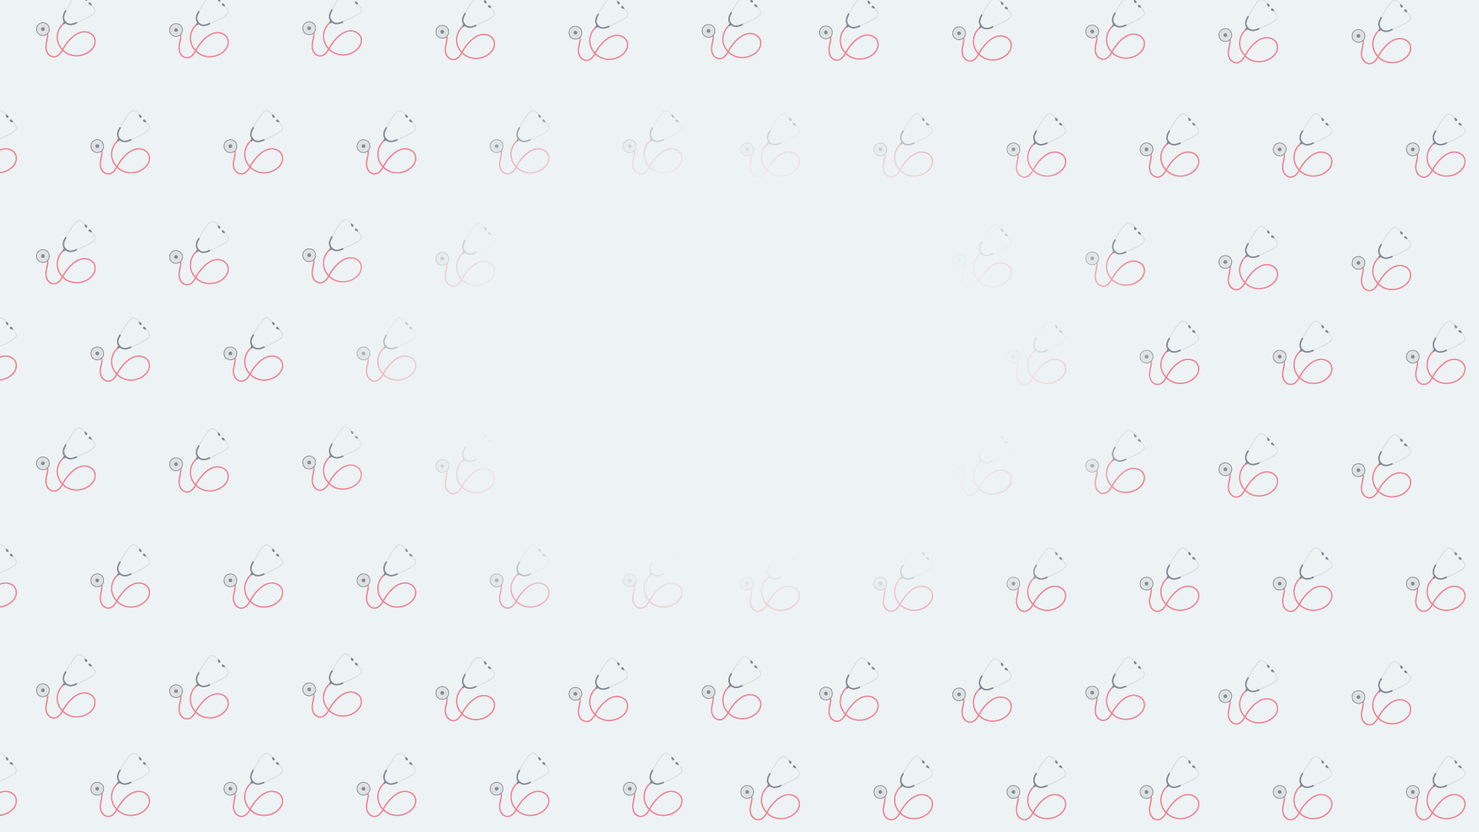
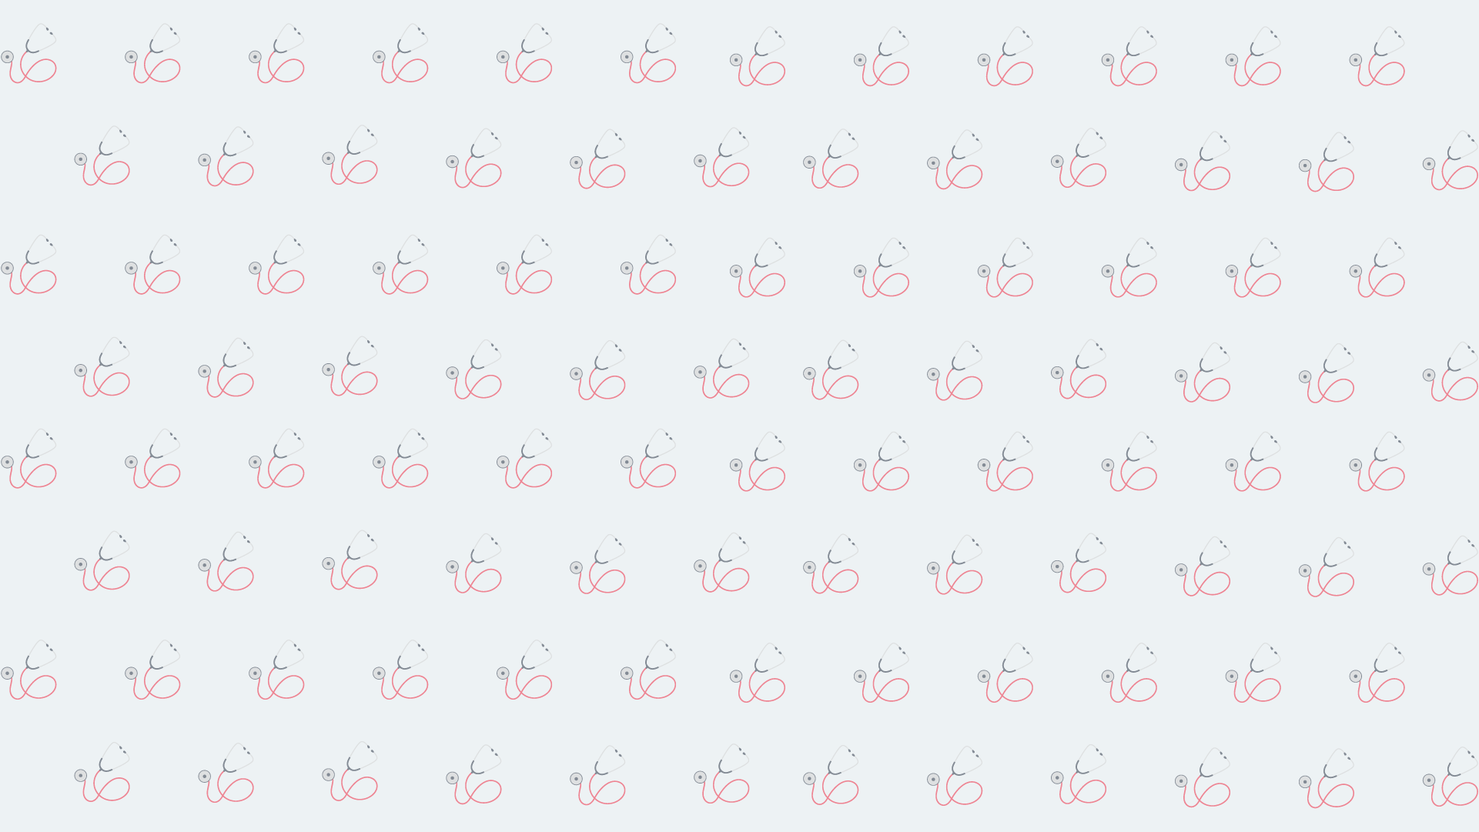
2023 update
changed text color to #2b2d42 or #edf2f4 depending on the background color
added new aftermovie
changed icon color
changed all years to 2023
added new background images and colors to all sections
ramove brainhack finished text
changed link color to d90429
removed text from Lectures section
schadule - needs to be updated at a later date
removed zicer and educateam from sponsors (until formal confirmation)
added Become a sponsor section

diff --git a/index.html b/index.html
@@ -5,10 +5,10 @@
     <meta charset="utf-8">
     <meta http-equiv="X-UA-Compatible" content="IE=edge">
     <meta name="viewport" content="width=device-width, initial-scale=1">
-    <meta name="description" content="Brainhack Zagreb 2022 Website">
-    <meta name="author" content="Brainhack Zagreb 2022">
+    <meta name="description" content="Brainhack Zagreb 2023 Website">
+    <meta name="author" content="Brainhack Zagreb 2023">
     <meta property="og:image" content="https://brainhackzg.github.io/img/instagram.png"/>
-    <title>Brainhack Zagreb 2022</title>
+    <title>Brainhack Zagreb 2023</title>
     <!-- Bootstrap Core CSS -->
     <link href="css/bootstrap.min.css" rel="stylesheet">
     <!--<link rel="stylesheet" href="https://maxcdn.bootstrapcdn.com/bootstrap/3.3.7/css/bootstrap.min.css" integrity="sha384-BVYiiSIFeK1dGmJRAkycuHAHRg32OmUcww7on3RYdg4Va+PmSTsz/K68vbdEjh4u" crossorigin="anonymous">-->
@@ -53,6 +53,9 @@
                 <a href="#sponsors" onclick=$ ( "#menu-close").click();>Sponsors</a>
             </li>
             <li>
+                <a href="#become-sponsor" onclick=$ ( "#menu-close").click();>Become a sponsor</a>
+            </li>
+            <li>
                 <a href="#previousbrainhacks" onclick=$ ( "#menu-close").click();>Previous Brainhacks</a>
             </li>
             <li>
@@ -71,16 +74,14 @@
             </div>-->
             <div class="row">
                 <div class="col-xl-8 col-xl-offset-2 col-lg-8 col-lg-offset-2 col-md-10 col-md-offset-1 col-sm-10 col-sm-offset-1 col-xs-12 col-xs-offset-0">
-                    <h2 color:#2b2d42> Zagreb - 3rd & 4th December 2022 @ <a class="naslovboja" href="https://g.page/ZICER"><strong>ZICER</strong></a></h2>
-                    <h2 color:#2b2d42>Brainhack has finished for this year!</h2>
-                    <!--<h2> Registrations are open until December 2nd. Register <a class="naslovboja" href="https://educateam.hr/brainhack-zagreb/"><strong>here</strong></a> and fill out the <a class="naslovboja" href="https://forms.gle/KoDnWja2hJwJXS3J6"><strong>participation form</strong></a>!</h2></h2>-->
-                    <!--<h2> Explore and contribute to <a class= "naslovboja" href="https://brainhack.org/global2022/projects/">brainhack projects worldwide!</a></h2>-->
-                   <!-- <h3>Check out the <a class="naslovboja" href="https://drive.google.com/drive/folders/1TWyFN6QchWBv-5c6VBynTo_1aTCE4S4C"><strong>image gallery</strong></a> and <a class="naslovboja" href="https://github.com/brainhackzg/hackathon2018/wiki/Projects"><strong>project details</strong></a> from the previous (2018) edition of Brainhack Zagreb!</h3> -->
-
+                        <h2 style="color: #2b2d42"> Zagreb - 21st & 22nd October 2023
+                        <!--<h2> Registrations are open until December 2nd. Register <a class="naslovboja" href="https://educateam.hr/brainhack-zagreb/"><strong>here</strong></a> and fill out the <a class="naslovboja" href="https://forms.gle/KoDnWja2hJwJXS3J6"><strong>participation form</strong></a>!</h2></h2>-->
+                        <!--<h2> Explore and contribute to <a class= "naslovboja" href="https://brainhack.org/global2022/projects/">brainhack projects worldwide!</a></h2>-->
+                        <!-- <h3>Check out the <a class="naslovboja" href="https://drive.google.com/drive/folders/1TWyFN6QchWBv-5c6VBynTo_1aTCE4S4C"><strong>image gallery</strong></a> and <a class="naslovboja" href="https://github.com/brainhackzg/hackathon2018/wiki/Projects"><strong>project details</strong></a> from the previous (2018) edition of Brainhack Zagreb!</h3> -->
             </div>
             </div>
             <!-- <a href="https://docs.google.com/forms/d/e/1FAIpQLSfybbI95ETYmQ0YF7HKg3Cr88BP-ylxqAhCjKpN_hT3HfGv5g/viewform" target="_blank" class="btn btn-dark btn-lg top5 left5">Register Now</a>-->
-            <a href="https://mattermost.brainhack.org" target="_blank" class="btn btn-dark btn-lg top5 left5">Join Brainhack on Mattermost</a> 
+            <a style="color: #edf2f4" href="https://mattermost.brainhack.org" target="_blank" class="btn btn-dark btn-lg top5 left5">Join Brainhack on Mattermost</a> 
 	  <br>
             <a href="https://www.facebook.com/BrainhackZagreb" target="_blank">
               <img src="img/facebook_logo.png" height="55rem" alt="Facebook"/> </a>
@@ -92,7 +93,7 @@
             <br>
             <!-- <a href="#about" class="btn btn-dark btn-lg">Find Out More</a> -->
             <iframe width="560" height="315" src="https://www.youtube.com/embed/FnB5gvgEZf4?controls=0" title="YouTube video player" frameborder="0" allow="accelerometer; autoplay; clipboard-write; encrypted-media; gyroscope; picture-in-picture" allowfullscreen></iframe>
-            <iframe width="560" height="315" src="https://www.youtube.com/embed/p1CC6oWoKWo?controls=0" title="YouTube video player" frameborder="0" allow="accelerometer; autoplay; clipboard-write; encrypted-media; gyroscope; picture-in-picture" allowfullscreen></iframe>
+            <iframe width="560" height="315" src="https://www.youtube.com/embed/ECnOtcYUQ0c?si=xlG1BNCaIOg4Onxr" title="YouTube video player" frameborder="0" allow="accelerometer; autoplay; clipboard-write; encrypted-media; gyroscope; picture-in-picture; web-share" allowfullscreen></iframe>
             <br>
             <br>
         </div>
@@ -107,12 +108,14 @@
                         <div class="service-item">
                             <span class="fa-stack fa-4x">
                                     <i class="fa fa-circle fa-stack-2x"></i>
+                                    <div class="tekstboja">
                                     <i class="fa fa-share-alt fa-stack-1x text-primary"></i>
+                                </div>
                                 </span>
-                            <h4>
+                            <h4 style="color: #edf2f4">
                                     <strong>Share</strong>
                                 </h4>
-                            <p>Show your research to other researchers.</p>
+                            <p style="color: #edf2f4">Show your research to other researchers.</p>
                         </div>
                     </div>
                     <div class="col-md-3 col-sm-6">
@@ -121,10 +124,10 @@
                                     <i class="fa fa-circle fa-stack-2x"></i>
                                     <i class="fa fa-graduation-cap fa-stack-1x text-primary"></i>
                                 </span>
-                            <h4>
+                            <h4 style="color: #edf2f4">
                                     <strong>Gain Skills</strong>
                                 </h4>
-                            <p>Learn how to apply the latest computational tools to your data.</p>
+                            <p style="color: #edf2f4">Learn how to apply the latest computational tools to your data.</p>
                         </div>
                     </div>
                     <div class="col-md-3 col-sm-6">
@@ -133,10 +136,10 @@
                                     <i class="fa fa-circle fa-stack-2x"></i>
                                     <i class="fa fa-cogs fa-stack-1x text-primary"></i>
                                 </span>
-                            <h4>
+                            <h4 style="color: #edf2f4">
                                     <strong>Get Involved</strong>
                                 </h4>
-                            <p>Find exciting projects that you would like to contribute to.</p>
+                            <p style="color: #edf2f4">Find exciting projects that you would like to contribute to.</p>
                         </div>
                     </div>
                     <div class="col-md-3 col-sm-6">
@@ -145,10 +148,10 @@
                                     <i class="fa fa-circle fa-stack-2x"></i>
                                     <i class="fab fa-weixin fa-stack-1x text-primary"></i>
                                 </span>
-                            <h4>
+                            <h4 style="color: #edf2f4">
                                     <strong>Be Social</strong>
                                 </h4>
-                            <p>Meet researchers from a variety of backgrounds.</p>
+                            <p style="color: #edf2f4">Meet researchers from a variety of backgrounds.</p>
                         </div>
                     </div>
                 </div>
@@ -167,15 +170,15 @@
             <div class="row text-center">
                 <div class="col-xl-8 col-xl-offset-2 col-lg-8 col-lg-offset-2 col-md-10 col-md-offset-1 col-sm-10 col-sm-offset-1 col-xs-12 col-xs-offset-0">
             <!-- <h3><a href="https://www.entrio.hr/event/brainhack-zagreb-2018-4854" target="_blank">Register for the Brainhack Zagreb 2018!</a></h3> -->
-                    <h2 style="color: white">Brainhack Zagreb 2022</h2>
+                    <h2 style="color: #edf2f4">Brainhack Zagreb 2023</h2>
 		<!--<h4> See what's going on in the <a href="https://www.tportal.hr/tehno/clanak/dobre-vibracije-na-brainhacku-skenirali-rubne-dijelove-mozgova-i-mozdanim-valovima-igrali-super-marija-foto-20191118">media</a>, what our partners <a href="https://www.diktiranje.hr/blog/4574-nastavak-ulaganja-u-znanost-i-bolju-buducnost-brainhack-2019/">write</a>, this cool <a href="https://www.youtube.com/watch?v=wwZsKRezP2Q">video</a> and stay updated about the projects on Brainhack <a href="https://github.com/brainhackzg/brainhackzg.github.io/wiki">wiki pages</a>!</h4>-->
-			<h4 style="color: white"> Brainhack Zagreb is part of an international initiative of hackathons known as <a href="http://www.brainhack.org/" target="_blank">Brainhack Global</a>. We bring researchers from numerous disciplines together to participate in open collaboration at the crossing of neuroscience, computer science and statistics. </h4>
+			<h4 style="color: #edf2f4"> Brainhack Zagreb is part of an international initiative of hackathons known as <a style="color: #d90429" href="http://www.brainhack.org/" target="_blank">Brainhack Global</a>. We bring researchers from numerous disciplines together to participate in open collaboration at the crossing of neuroscience, computer science and statistics. </h4>
 			     <br>
-                 <h2 style="color: white">How Brainhack works?</h2>
-                 <h4 style="color: white">Participants will introduce projects and themselves at the beginning of the hackathon. Bring your data, show your work, or ask a question from your field of interest. If you don't have something to show, don't worry, kick back and find what interests you - maybe you can help others in their projects, or learn something new. During open hacking you will have time to work on projects, share ideas, tinker with stuff and most importantly - be the part of the atmosphere!</h4>
+                 <h2 style="color: #edf2f4">How Brainhack works?</h2>
+                 <h4 style="color: #edf2f4">Participants will introduce projects and themselves at the beginning of the hackathon. Bring your data, show your work, or ask a question from your field of interest. If you don't have something to show, don't worry, kick back and find what interests you - maybe you can help others in their projects, or learn something new. During open hacking you will have time to work on projects, share ideas, tinker with stuff and most importantly - be the part of the atmosphere!</h4>
                  <br>
-		 <h3 style="color: white">Travel support available!</h3>
-                 <h4 style="color: white">We are able to support travel costs for participants coming from outside Zagreb. To apply and for more details, write us at <a href="mailto:brainhackzg@gmail.com">brainhackzg@gmail.com</a>.</h5>
+		 <h3 style="color: #edf2f4">Travel support available!</h3>
+                 <h4 style="color: #edf2f4">We are able to support travel costs for participants coming from outside Zagreb. To apply and for more details, write us at <a style="color: #d90429" href="mailto:brainhackzg@gmail.com">brainhackzg@gmail.com</a>.</h5>
                     		<div class="row">
                         	<div class="col-lg-10 col-lg-offset-1 text-center">
                             	<img src="img/bh.png" height="600rem" alt="MAGIC!" class="slikamozak"></a>
@@ -190,9 +193,10 @@
     </section>
 
     <section id="programme" class="programme">
-        <h1 style="color: #fff">Programme</h1>
+        <h1 style="color: #2b2d42">Programme</h1>
+        <h2 style="color: #2b2d42">To Be Announced Soon</h2>
 
-
+        <!--
         <h2 style="color: #fff">Lectures</h2>
         <div class="container">
             <div class="row text-center">
@@ -235,7 +239,7 @@
             </div>
             <!-- /.row -->
         </div>
-
+        <!--
         <h2 style="color: #fff">Panel Discussion</h2>
         <h3 style="color: #fff"><i>Neurolinguistics in everyday life</i></h3>
         <h3 style="color: #fff">Saturday (Day 1) 4pm</h3>
@@ -283,7 +287,7 @@
             </div>
             <!-- /.row -->
         </div>
-
+    
     </section>
 
     <aside class="workspace" id="schedule">
@@ -303,10 +307,10 @@
             <br>
                     <div class="container">
                         <div class="row top30">&nbsp</div>
-                        <h2>Schedule</h2>
+                        <h2 style="color: #2b2d42">Schedule</h2>
                             </div>
                         </div>
-                        <div class="row top30">
+                        <div style="color: #edf2f4" class="row top30">
                             
             
                             <!-- Day 1 START -->
@@ -391,7 +395,7 @@
                             </div>
                             <!-- Day 1 END -->
                             <!-- Day 2 START -->
-                            <div class="col-md-6 col-lg-6 col-sm-10 col-xs-10 col-md-offset-0 col-lg-offset-0 col-sm-offset-1 col-xs-offset-1">
+                            <div style="color: #edf2f4" class="col-md-6 col-lg-6 col-sm-10 col-xs-10 col-md-offset-0 col-lg-offset-0 col-sm-offset-1 col-xs-offset-1">
                                 <div class="row top5 text-center">
                                     <div class="col-md-8 col-md-offset-2 col-xs-8 col-xs-offset-2 text-dark">
                                         <h3>Day 2</h3>
@@ -494,7 +498,7 @@
             <div class="row">
                 <div class="col-lg-12 text-center">
                     <br>
-                    <h3 style="color: #03071e"><strong>Supported by:</strong></h3>
+                    <h3 style="color: #2b2d42"><strong>Supported by:</strong></h3>
                     <br>
                     <br>
                 </div>
@@ -568,7 +572,7 @@
                         <br>
                         <br>
                     </div>
-                    <div class="col-lg-4 col-lg-offset-1 col-md-3 col-md-offset-0 col-sm-10 col-sm-offset-1 col-xs-10 col-xs-offset-1">
+                    <!--<div class="col-lg-4 col-lg-offset-1 col-md-3 col-md-offset-0 col-sm-10 col-sm-offset-1 col-xs-10 col-xs-offset-1">
                         <a href="https://www.zicer.hr/" target="_blank">
                             <img src="img/logo/support/eng/zicer-logo.png" height="80rem" alt="ZICER"/>
                         </a>
@@ -583,7 +587,7 @@
                         <br>
                     </div>
 
-                </div>
+                </div>-->
             </div>
             <div class="row top5">&nbsp;</div>
         </div>
@@ -591,17 +595,28 @@
     </section>
   </section>
 
+  <section id="become-sponsor">
+    <div style="background: #2b2d42">
+    <div class="row text-center">
+        <h2 style="color: #edf2f4; font-family: Comfortaa;">If you wish to become a sponsor, feel free to contact us!</h2>
+    </div>
+    </div>
+  </section>
+
 
   <section>
       <div class="workspace" id="previousbrainhacks">
         <div class="row text-center">
-          <h2> Previous Brainhacks </h2>
+          <h2 style="color: #2b2d42"> Previous Brainhacks </h2>
           <br>
-          <a  onclick="setYear(2018)" target="_blank" class="btn btn-dark btn-lg top5 left5">2018</a>
-          <a  onclick="setYear(2019)" target="_blank" class="btn btn-dark btn-lg top5 left5">2019</a>
-          <a  onclick="setYear(2020)" target="_blank" class="btn btn-dark btn-lg top5 left5">2020</a>
-          <a  onclick="setYear(2021)" target="_blank" class="btn btn-dark btn-lg top5 left5">2021</a>
           <a  onclick="setYear(2022)" target="_blank" class="btn btn-dark btn-lg top5 left5">2022</a>
+          <a  onclick="setYear(2021)" target="_blank" class="btn btn-dark btn-lg top5 left5">2021</a>
+          <a  onclick="setYear(2020)" target="_blank" class="btn btn-dark btn-lg top5 left5">2020</a>
+          <a  onclick="setYear(2019)" target="_blank" class="btn btn-dark btn-lg top5 left5">2019</a>
+          <a  onclick="setYear(2018)" target="_blank" class="btn btn-dark btn-lg top5 left5">2018</a>
+
+          
+          
 
         </div>
 
@@ -611,7 +626,7 @@
 
  <!-- Full-width images with number and caption text -->
  <div class="slides" >
-   <img src= "img/previousbh/2018/img1.png" width = 100%>
+   <img src= "img/previousbh/2022/img1.jpg" width = 100%>
    <!-- <div id="caption" class="text" textContent=""></div> -->
  </div>
 
@@ -626,44 +641,41 @@
         <div class="container">
             <div class="row">
                 <div class="col-lg-10 col-lg-offset-1 text-center">
-                    <h3><strong>For more information:</strong></h3>
+                    <h3 style="color: #edf2f4"><strong>For more information:</strong></h3>
                     <i class="fa fa-envelope-o fa-fw"></i>
 			<a href="https://www.facebook.com/BrainhackZagreb" target="_blank">
                             <img src="img/facebook_logo.png" height="55rem" alt="Facebook"/>
 		    	<a href="https://www.instagram.com/brainhack_zagreb/" target="_blank">
                             <img src="img/instagram_logo.png" height="80rem" alt="Facebook"/>
 			<br>
-                    <a href="mailto:brainhackzg@gmail.com">brainhackzg@gmail.com</a>
+                    <a style="font-size:200%; color: #d90429" href="mailto:brainhackzg@gmail.com">brainhackzg@gmail.com</a>
 
                     <br>
                     <br>
                     <h3><strong>Organizing committee:</strong></h3>
-                    <ul class="list-unstyled">
-                        <li>
-                            <h4>Eda Jovičić</h4>
-                        </li>
+                    <ul style="color: #edf2f4" class="list-unstyled">
                         <li>
                             <h4>Fran Božić</h4>
                         </li>
                         <li>
-                            <h4>Mario Zelić</h4>
+                            <h4>Tamara Ćorić</h4>
                         </li>
-			            <li>
-                            <h4>Jan Homolak</h4>
+                        <li>
+                            <h4>Tina Grgasović</h4>
                         </li>
-			            <li>
-                            <h4>Pavel Marković</h4>
+                        <li>
+                            <h4>Eda Jovičić</h4>
                         </li>
                         <li>
                             <h4>Davor Virag</h4>
                         </li>
                         <li>
-                            <h4>Tamara Ćorić</h4>
+                            <h4>Mario Zelić</h4>
                         </li>
                     </ul>
                     <br>
                     <h3><strong>Scientific committee:</strong></h3>
-                    <ul class="list-unstyled">
+                    <ul style="color: #edf2f4" class="list-unstyled">
                         <li>
                             <h4>Dinko Smilović</h4>
                         </li>

diff --git a/js/bootstrap.min.js b/js/bootstrap.min.js
@@ -7,7 +7,7 @@ if("undefined"==typeof jQuery)throw new Error("Bootstrap's JavaScript requires j
 this.activeTarget=b,this.clear();var c=this.selector+'[data-target="'+b+'"],'+this.selector+'[href="'+b+'"]',d=a(c).parents("li").addClass("active");d.parent(".dropdown-menu").length&&(d=d.closest("li.dropdown").addClass("active")),d.trigger("activate.bs.scrollspy")},b.prototype.clear=function(){a(this.selector).parentsUntil(this.options.target,".active").removeClass("active")};var d=a.fn.scrollspy;a.fn.scrollspy=c,a.fn.scrollspy.Constructor=b,a.fn.scrollspy.noConflict=function(){return a.fn.scrollspy=d,this},a(window).on("load.bs.scrollspy.data-api",function(){a('[data-spy="scroll"]').each(function(){var b=a(this);c.call(b,b.data())})})}(jQuery),+function(a){"use strict";function b(b){return this.each(function(){var d=a(this),e=d.data("bs.tab");e||d.data("bs.tab",e=new c(this)),"string"==typeof b&&e[b]()})}var c=function(b){this.element=a(b)};c.VERSION="3.3.7",c.TRANSITION_DURATION=150,c.prototype.show=function(){var b=this.element,c=b.closest("ul:not(.dropdown-menu)"),d=b.data("target");if(d||(d=b.attr("href"),d=d&&d.replace(/.*(?=#[^\s]*$)/,"")),!b.parent("li").hasClass("active")){var e=c.find(".active:last a"),f=a.Event("hide.bs.tab",{relatedTarget:b[0]}),g=a.Event("show.bs.tab",{relatedTarget:e[0]});if(e.trigger(f),b.trigger(g),!g.isDefaultPrevented()&&!f.isDefaultPrevented()){var h=a(d);this.activate(b.closest("li"),c),this.activate(h,h.parent(),function(){e.trigger({type:"hidden.bs.tab",relatedTarget:b[0]}),b.trigger({type:"shown.bs.tab",relatedTarget:e[0]})})}}},c.prototype.activate=function(b,d,e){function f(){g.removeClass("active").find("> .dropdown-menu > .active").removeClass("active").end().find('[data-toggle="tab"]').attr("aria-expanded",!1),b.addClass("active").find('[data-toggle="tab"]').attr("aria-expanded",!0),h?(b[0].offsetWidth,b.addClass("in")):b.removeClass("fade"),b.parent(".dropdown-menu").length&&b.closest("li.dropdown").addClass("active").end().find('[data-toggle="tab"]').attr("aria-expanded",!0),e&&e()}var g=d.find("> .active"),h=e&&a.support.transition&&(g.length&&g.hasClass("fade")||!!d.find("> .fade").length);g.length&&h?g.one("bsTransitionEnd",f).emulateTransitionEnd(c.TRANSITION_DURATION):f(),g.removeClass("in")};var d=a.fn.tab;a.fn.tab=b,a.fn.tab.Constructor=c,a.fn.tab.noConflict=function(){return a.fn.tab=d,this};var e=function(c){c.preventDefault(),b.call(a(this),"show")};a(document).on("click.bs.tab.data-api",'[data-toggle="tab"]',e).on("click.bs.tab.data-api",'[data-toggle="pill"]',e)}(jQuery),+function(a){"use strict";function b(b){return this.each(function(){var d=a(this),e=d.data("bs.affix"),f="object"==typeof b&&b;e||d.data("bs.affix",e=new c(this,f)),"string"==typeof b&&e[b]()})}var c=function(b,d){this.options=a.extend({},c.DEFAULTS,d),this.$target=a(this.options.target).on("scroll.bs.affix.data-api",a.proxy(this.checkPosition,this)).on("click.bs.affix.data-api",a.proxy(this.checkPositionWithEventLoop,this)),this.$element=a(b),this.affixed=null,this.unpin=null,this.pinnedOffset=null,this.checkPosition()};c.VERSION="3.3.7",c.RESET="affix affix-top affix-bottom",c.DEFAULTS={offset:0,target:window},c.prototype.getState=function(a,b,c,d){var e=this.$target.scrollTop(),f=this.$element.offset(),g=this.$target.height();if(null!=c&&"top"==this.affixed)return e<c&&"top";if("bottom"==this.affixed)return null!=c?!(e+this.unpin<=f.top)&&"bottom":!(e+g<=a-d)&&"bottom";var h=null==this.affixed,i=h?e:f.top,j=h?g:b;return null!=c&&e<=c?"top":null!=d&&i+j>=a-d&&"bottom"},c.prototype.getPinnedOffset=function(){if(this.pinnedOffset)return this.pinnedOffset;this.$element.removeClass(c.RESET).addClass("affix");var a=this.$target.scrollTop(),b=this.$element.offset();return this.pinnedOffset=b.top-a},c.prototype.checkPositionWithEventLoop=function(){setTimeout(a.proxy(this.checkPosition,this),1)},c.prototype.checkPosition=function(){if(this.$element.is(":visible")){var b=this.$element.height(),d=this.options.offset,e=d.top,f=d.bottom,g=Math.max(a(document).height(),a(document.body).height());"object"!=typeof d&&(f=e=d),"function"==typeof e&&(e=d.top(this.$element)),"function"==typeof f&&(f=d.bottom(this.$element));var h=this.getState(g,b,e,f);if(this.affixed!=h){null!=this.unpin&&this.$element.css("top","");var i="affix"+(h?"-"+h:""),j=a.Event(i+".bs.affix");if(this.$element.trigger(j),j.isDefaultPrevented())return;this.affixed=h,this.unpin="bottom"==h?this.getPinnedOffset():null,this.$element.removeClass(c.RESET).addClass(i).trigger(i.replace("affix","affixed")+".bs.affix")}"bottom"==h&&this.$element.offset({top:g-b-f})}};var d=a.fn.affix;a.fn.affix=b,a.fn.affix.Constructor=c,a.fn.affix.noConflict=function(){return a.fn.affix=d,this},a(window).on("load",function(){a('[data-spy="affix"]').each(function(){var c=a(this),d=c.data();d.offset=d.offset||{},null!=d.offsetBottom&&(d.offset.bottom=d.offsetBottom),null!=d.offsetTop&&(d.offset.top=d.offsetTop),b.call(c,d)})})}(jQuery);
 
 var slideIndex = 1;
-var year=2018;
+var year=2022;
 var size=6
 // Controls which pictures from which year user views
 function setYear(temp_year){
@@ -34,7 +34,7 @@ function plusSlides(n) {
 
 // Loads and displays images and captions
 function imgsrc(year,img){
-  tempImg = document.getElementsByTagName("img").item(22);
+  tempImg = document.getElementsByTagName("img").item(13);
   //tempCaption = document.getElementById("caption");
   if (year==2021 || year == 2022) tempImg.setAttribute("src","img/previousbh/"+year+"/img"+img+".jpg");
   else tempImg.setAttribute("src","img/previousbh/"+year+"/img"+img+".png");

diff --git a/css/stylish-portfolio.css b/css/stylish-portfolio.css
@@ -235,6 +235,10 @@ hr.small {
   text-align: center;
 }
 
+.tekstboja_{
+    color: #2b2d42;
+}
+
 /* Number text (1/3 etc) */
 .numbertext {
   color: #f2f2f2;
@@ -310,12 +314,20 @@ hr.small {
     
 }
 
+.text-primary{
+    color:#2b2d42
+}
+
+.fa-circle{
+    color: #edf2f4
+}
+
 /* Services */
 
 .services {
     padding: 50px 0;
 	font-family: 'Comfortaa', cursive;
-    background-color: #0B273A;
+    background-color: #2b2d42;
 }
 
 .services a {
@@ -329,6 +341,7 @@ hr.small {
 
 .service-item {
     margin-bottom: 30px;
+    
 }
 
 .title {
